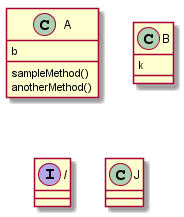
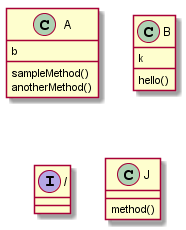
displaying methods on class diagram generated from test files

diff --git a/PersonalProject/Outputs/output.java b/PersonalProject/Outputs/output.java
@@ -6,9 +6,11 @@ anotherMethod()
 }
 class B{
 k
+hello()
 }
 interface I{
 }
 class J{
+method()
 }
 @enduml
